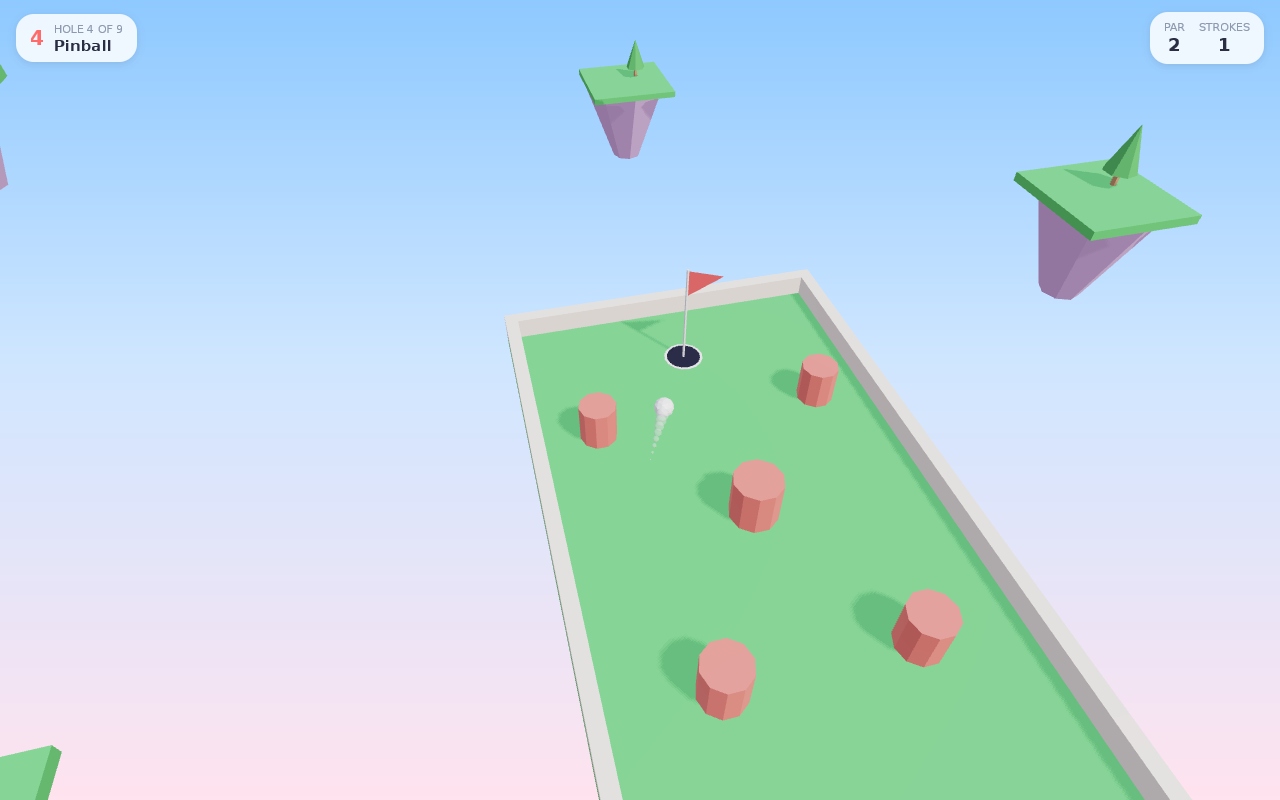
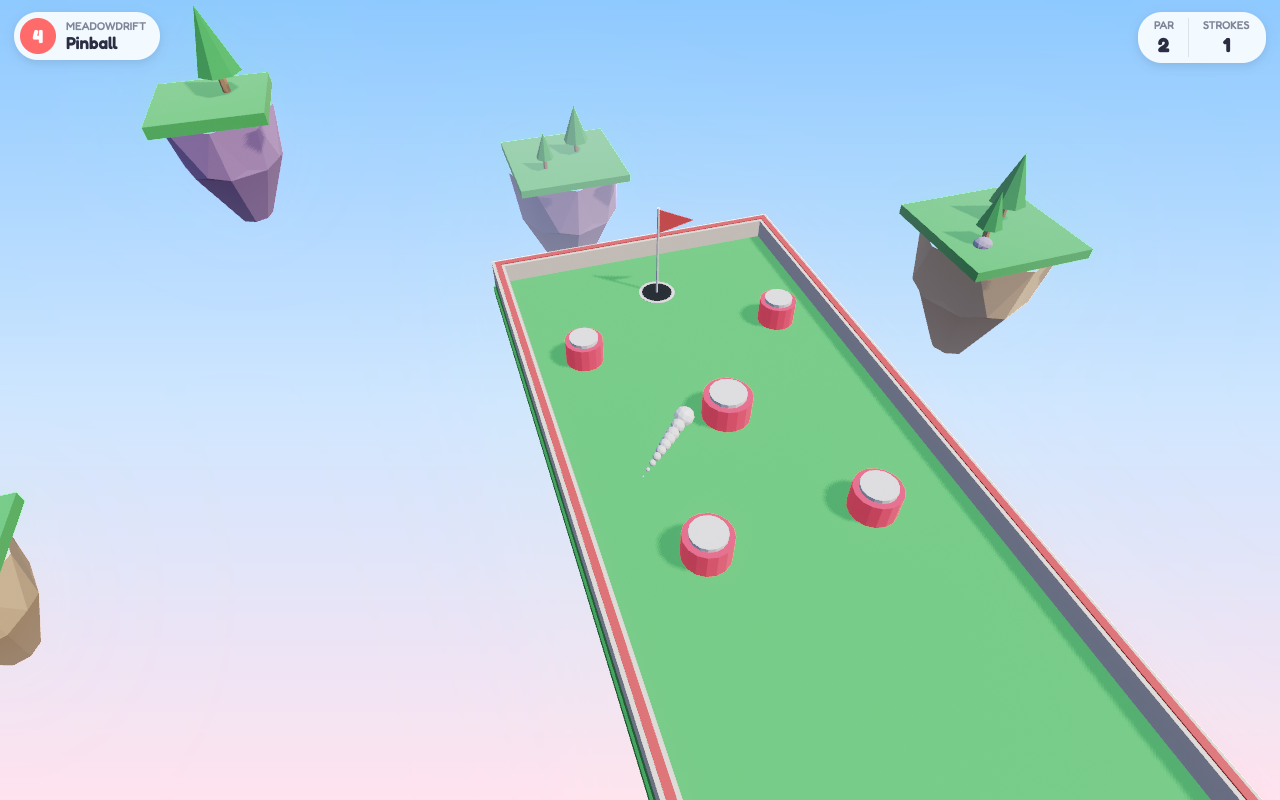
examples/golf: README (the islands' holes and what each brings in, the pieces, the tools), helder.json (the description, holes 8, 16, 10, 18, 4 and 13 for helder.run's screenshots, from their recorded rounds)

diff --git a/examples/golf/README.md b/examples/golf/README.md
@@ -1,16 +1,43 @@
 # Floating Greens
 
-Mini golf on floating islands: helder's first game (the roadmap's phase 4),
-nine short holes for a phone, in Haxe. Play it on the examples site
-(site/, deployed by the pages workflow: its Full screen button; on Android
-its card has the APK), or:
+Mini golf on floating islands: helder's first game, in Haxe. Eighteen
+holes on three islands, each island bringing in its own pieces and then
+twisting them, so that on the later holes the puzzle is finding the route,
+not only aiming. Play it at https://floating-greens.helder.run, on the
+examples site (site/; on Android its card has the APK), or:
 
 ```sh
-bun run helder dev examples/golf/Golf.hx                    # a window, live-reloaded
-bun run helder build examples/golf/Golf.hx --target web     # bin/web/Golf.html
+bun run helder dev examples/golf                    # a window, live-reloaded
+bun run helder dev examples/golf --target web       # the browser
 bun run helder run examples/golf/Golf.hx --target android   # a phone or an emulator
 bun run helder run examples/golf/Golf.hx --target ios-sim   # the iOS simulator
 ```
+
+## The islands
+
+| | Hole | Par | Brings in |
+|---|---|---|---|
+| **Meadowdrift** (spring day) | 1 First Putt | 2 | the shot |
+| | 2 The Bend | 2 | banking off a rail |
+| | 3 Uphill | 2 | slopes |
+| | 4 Pinball | 2 | bumpers, kicking the ball away |
+| | 5 Sandy Shortcut | 2 | sand: the straight line, or round by the fast lane |
+| | 6 The Leap | 2 | a kicker over a gap |
+| **Copperwind Cliffs** (sunset) | 7 Sliders | 2 | blocks sliding across the lane |
+| | 8 Turnstile | 2 | turnstiles, turning opposite ways |
+| | 9 Crosswind | 2 | wind on a bridge without rails (in the air too) |
+| | 10 Booster Run | 2 | boosters up a slope too steep for a putt |
+| | 11 Lift Off | 3 | a lift: stop on it, ride up, shoot off |
+| | 12 Roundabout | 3 | a one-way gate: the cup's pen opens only from the far side |
+| **Lanternwater** (dusk) | 13 Skipping Stone | 2 | water (a stroke): over the pool, or down round it |
+| | 14 Wormhole | 2 | a portal to an island with no bridge |
+| | 15 Flip Switch | 3 | a switch in a bay opening the gate across the lane |
+| | 16 Brittle Bridge | 4 | crumbling tiles to the switch; back by the portal through the gate it opened |
+| | 17 Two Doors | 3 | one switch group: as one gate opens the other shuts, a plate between them |
+| | 18 Moonrise | 4 | portal, turnstile, switch and a gated pen together |
+
+Stars: three for par or better, two for one over, one for finishing. Every
+hole has a recorded round at or under par (GolfReplay).
 
 ## Controls
 
@@ -21,49 +48,62 @@ bun run helder run examples/golf/Golf.hx --target ios-sim   # the iOS simulator
 - **Look around**: drag anywhere else to turn the camera round the ball;
   pinch to zoom, twist with two fingers to turn (the mouse: drag, the
   wheel). While the ball rolls the camera eases round behind it, and when
-  it stops it turns to face the cup, unless you moved it a moment ago.
-- **Holes**: the hole's pill (top left) opens the menu: every hole with
-  its par, stars and your best. After a hole-in: Retry or Next hole.
-- **Stars**: three for par or better, two for one over, one for finishing.
-  Falling off an island puts the ball back where you hit it from, a
-  stroke more. Best scores are saved (helder.os's `Store`: a file in the
-  app's data directory, localStorage on the web).
+  it stops it turns to face the cup, unless you moved it a moment ago. As
+  a hole starts the camera flies from the cup back to the tee under the
+  hole's card (a press skips it).
+- **Holes**: the hole's pill (top left) opens the scorecard: each island's
+  holes with par, stars and your best. After a hole-in: Retry or Next.
+  Falling off, or into the water, puts the ball back where you hit it
+  from (the last place it rested on fixed ground), a stroke more; cracked
+  tiles are whole again. Best scores are saved (helder.os's `Store`).
 
 ## How it is built
 
-- `Course.hx`: the holes as data, each a list of kit pieces (`Flat`,
-  `RampZ`/`RampX`, `Wall`, `Block`, `Post`, `Mover`) with a tee, a cup and
-  a par; `Course.rails` draws a rail round a rectangle. A new hole is an
+- `Course.hx`: the islands (`worlds`: their sky, colours, sun, fog) and the
+  holes as data, each a list of pieces: `Flat`, `RampZ`/`RampX`, `Wall`,
+  `Block`, `Post`, `Bumper`, `Mover`, `Spinner`, `Lift`, `Boost`, `Wind`,
+  `Sand`, `Ice`, `Water`, `Portal`, `Switch`, `Gate`, `OneWay`, `Crumble`,
+  with a tee, a cup, a par and a tip for the hole's card. A new hole is an
   entry there and nothing else.
 - `Sim.hx`: one hole on helder.physics at 120 steps a second: the ball a
   sphere sliding with a little Coulomb friction (standing for a roll's
-  resistance; the view rolls it), a drag in proportion to its speed, rails
-  and posts bouncing it, moving blocks as static bodies moved each step with
-  their velocity set (contacts see it), a gentle funnel round the cup and
-  a capture below 1.9 m/s, a fall putting it back with a stroke. No sin,
-  cos or exp in a step: the same shots give the same bits natively and as
-  wasm32-wasi (`GolfReplay.hx`, the examples lane).
-- The shot: ui's `Press` gesture (`helder.ui.gesture.Press`), which, pressed
-  near the ball, wins the pointer at once, before any slop, so the
-  `<OrbitControls>` on the same `<Scene>` box only get presses elsewhere.
+  resistance; the view rolls it) and a drag in proportion to its speed;
+  rails, posts and bumpers bounce it; movers, lifts, turnstiles and gates
+  are static bodies placed each step with their velocities set (contacts
+  see them). The pieces' own rules run after the physics' step: bumpers
+  kick, boosters and wind push, sand and ice change the going, portals
+  move the ball keeping its speed, switches swap their group's gates
+  (which slide into the green), one-way lines bounce a ball coming the
+  wrong way, tiles fall once rolled off. No sin, cos or exp in a step
+  (`Sim.yaw` turns a turnstile by series and doublings): the same shots
+  give the same bits natively and as wasm32-wasi.
+- `GolfReplay.hx`: every hole's recorded round (each shot a direction, a
+  speed and how many steps to wait once the ball rests), replayed on the
+  simulation alone, natively and as wasm32-wasi (the examples lane); each
+  must hole in its strokes and allocate only while the physics' buffers
+  grow. `GolfReplay search N [shots] [x z]` finds the next shot after the
+  given ones; `trace N shots` follows the ball.
 - `Game.hx`: the scene's nodes made from the pieces (`Kit.hx`'s unit
-  meshes, flat shaded, scaled per piece: drawn instanced), the camera
-  (`<OrbitControls>` driven by the game too: following, facing the cup, a
-  look ahead of the ball on a tall screen), and the juice: a trail, a
-  squash along each hit's direction (a spring back), a shake on hard ones,
-  slow motion, confetti, a ring and the flag rising on a hole-in. A frame
-  of play allocates nothing (`GOLF_DEMO=4 bin/golf` prints the frames'
-  GcStats natively).
-- `Golf.hx`: the window (`<Surface>`, a sky gradient), the `<Scene>` and
-  the HUD and menu in ui's markup on helder.view's graph, clear of a
-  phone's bars (`env(safe-area-inset-*)`).
-- `Sounds.hx`: a tock, a knock, the cup's rattle and plunk, a whoosh and
-  a chime, made procedurally and mixed by helder.os's `Sfx` (desktop and
-  the web; silent on phones, which have no audio back end yet).
+  meshes, flat shaded, scaled per piece: drawn instanced), each island's
+  light, colours and fog, the camera (`<OrbitControls>` driven by the game:
+  the fly-over, following, facing the cup, in close round the cup on a
+  hole-in), the pieces' motion between steps, and the juice: particles
+  (`Particles.hx`: one InstancedMesh a pool: dust, a trail, splashes,
+  sparks, confetti, fireflies at dusk), ripples, birds, lanterns, a squash
+  along each hit, a shake on hard ones, slow motion. A frame of play
+  allocates nothing (`GOLF_DEMO=<hole>` plays the recorded round and prints
+  the frames' GcStats and draw count natively; `GOLF_PLAY=<hole>` starts a
+  hole, `GOLF_MENU` opens the scorecard).
+- `Golf.hx`: the window (`<Surface>`, the island's sky), a `<Scene hdr>`
+  (bloom, a light vignette: emissive portals, switches and lanterns glow)
+  and the title, hole card, HUD, card and scorecard in ui's markup, clear
+  of a phone's bars, laid out for a phone upright and a window on its side.
+  Set in Fredoka (fonts/, SIL Open Font License), embedded.
+- `Sounds.hx`: a tock, knocks, a thud, a boing, a warp, a click and a
+  rumble, a crumble, a splash, a whoosh, the cup's plunk and a chime, all
+  made procedurally and mixed by helder.os's `Sfx` (desktop and the web).
 
-Tests: `GolfReplay.hx` (six recorded rounds holed in their strokes,
-natively and as wasm32-wasi; the examples lane), the site check
-(`bun run site && bun run site:check`: golf played, full screen and
-expanded at 390x844, a touch drag from the ball shooting it), CI's
-emulator and simulator (tests/pack/android.sh, ios.sh: built, started, its
-first frames, a screenshot).
+Tests: `GolfReplay.hx` (the examples lane), the site check (`bun run site
+&& bun run site:check`: golf full screen and expanded at 390x844, Play
+pressed, the fly-over skipped, a touch drag from the ball shooting it),
+CI's emulator and simulator (tests/pack/android.sh, ios.sh).
